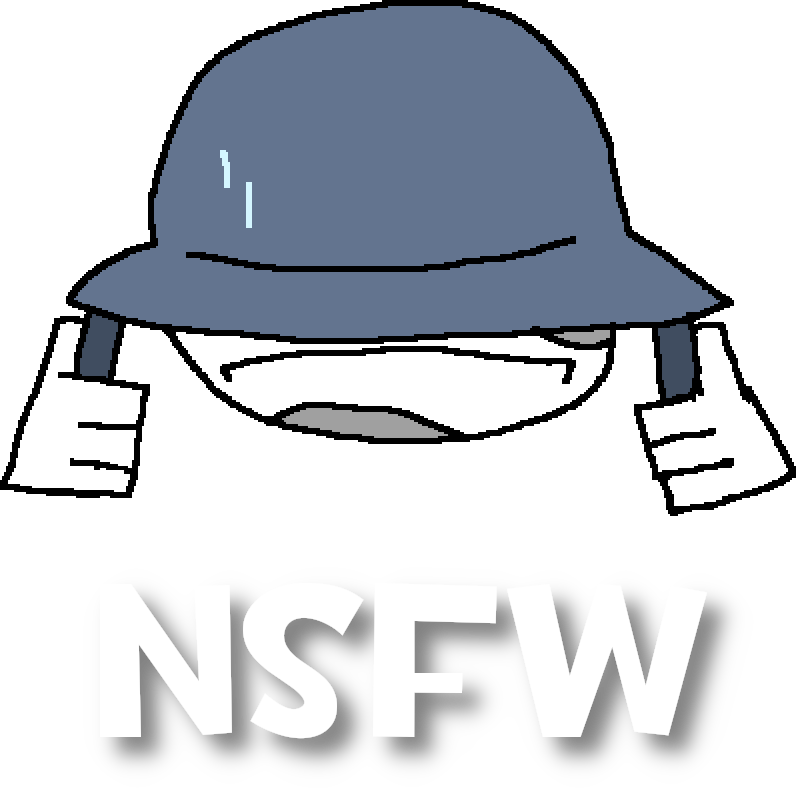
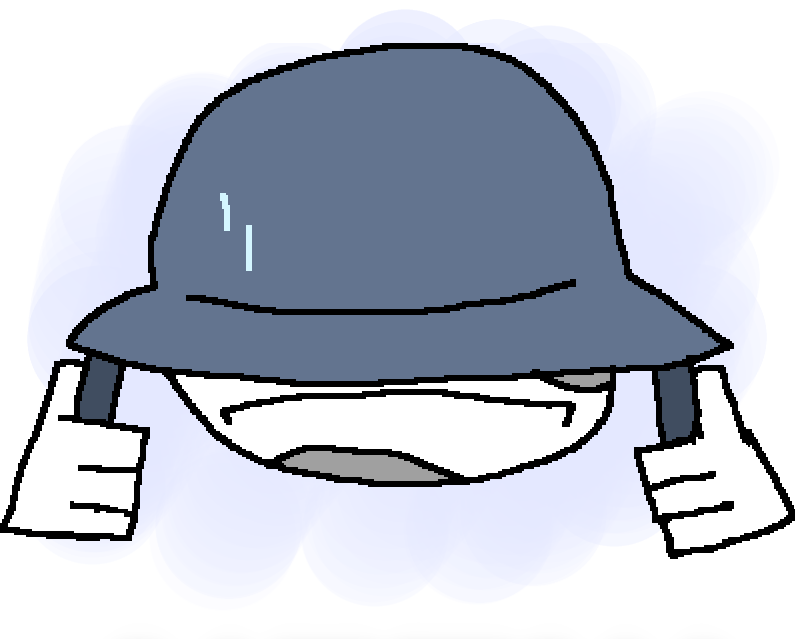
nag: Update NSFW nag to use standardised HTML class instead of baked text

diff --git a/nag/style.css b/nag/style.css
@@ -46,6 +46,7 @@ h2 {
 	font-family: tf2-build;
 	font-size: 2vmin;
 	text-align: center;
+	margin-top: 1vmin;
 }
 
 .end-text {
@@ -63,4 +64,9 @@ h2 {
 	margin-bottom: 2vmin;
 	max-width: 60vmin;
 	max-height: 40vmin;
+}
+
+.action-title {
+	font-size: 6vmin;
+	margin: 2vmin;
 }

diff --git a/nag/nsfw/index.html b/nag/nsfw/index.html
@@ -7,6 +7,7 @@
 <body>
 	<h1>You just posted...</h1>
 	<img class="hero-image" src="nsfw.png" />
+	<h1 class="action-title">NSFW</h1>
 	<h2>(Or an admin wanted to remind you of the rules.)</h2>
 	<p>
 		We don't allow NSFW content in sprays, text chat, or voice chat. Many of